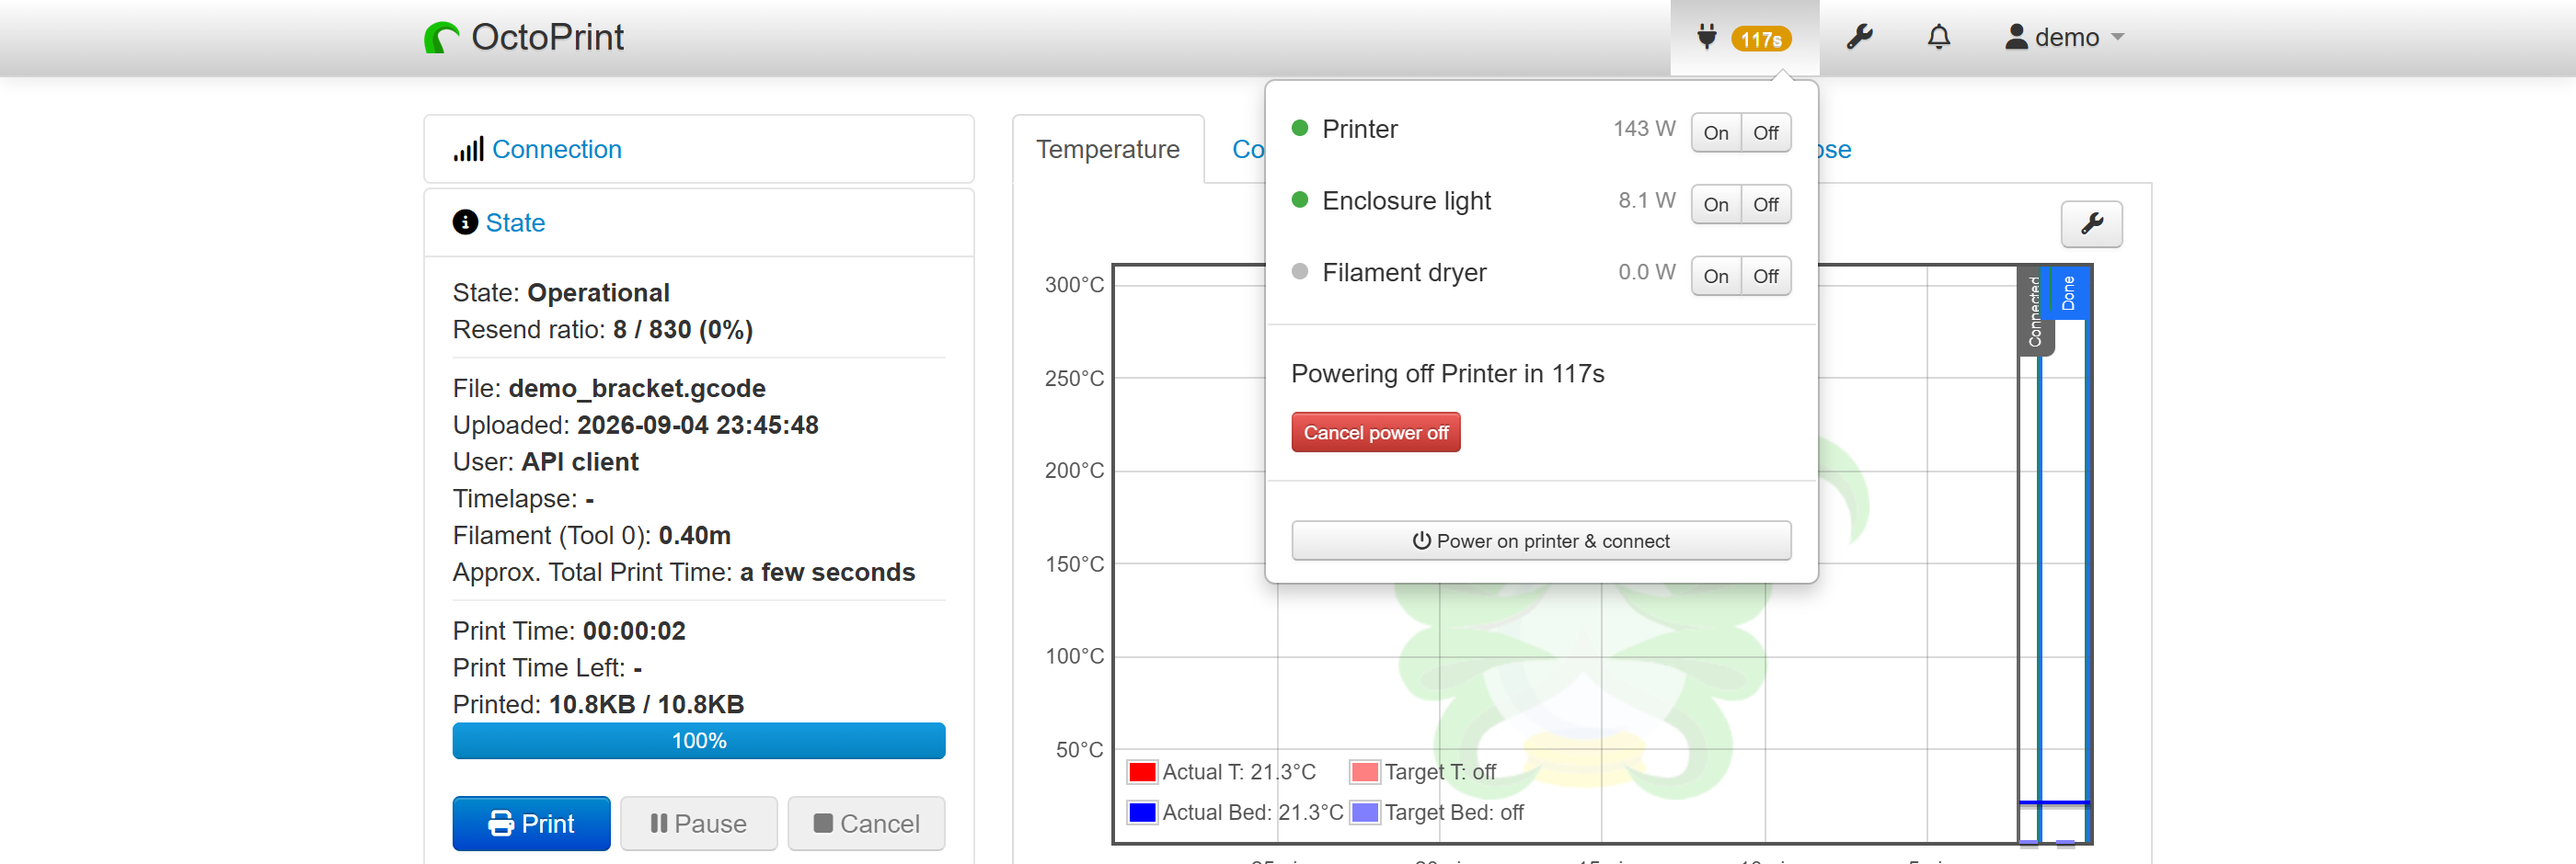
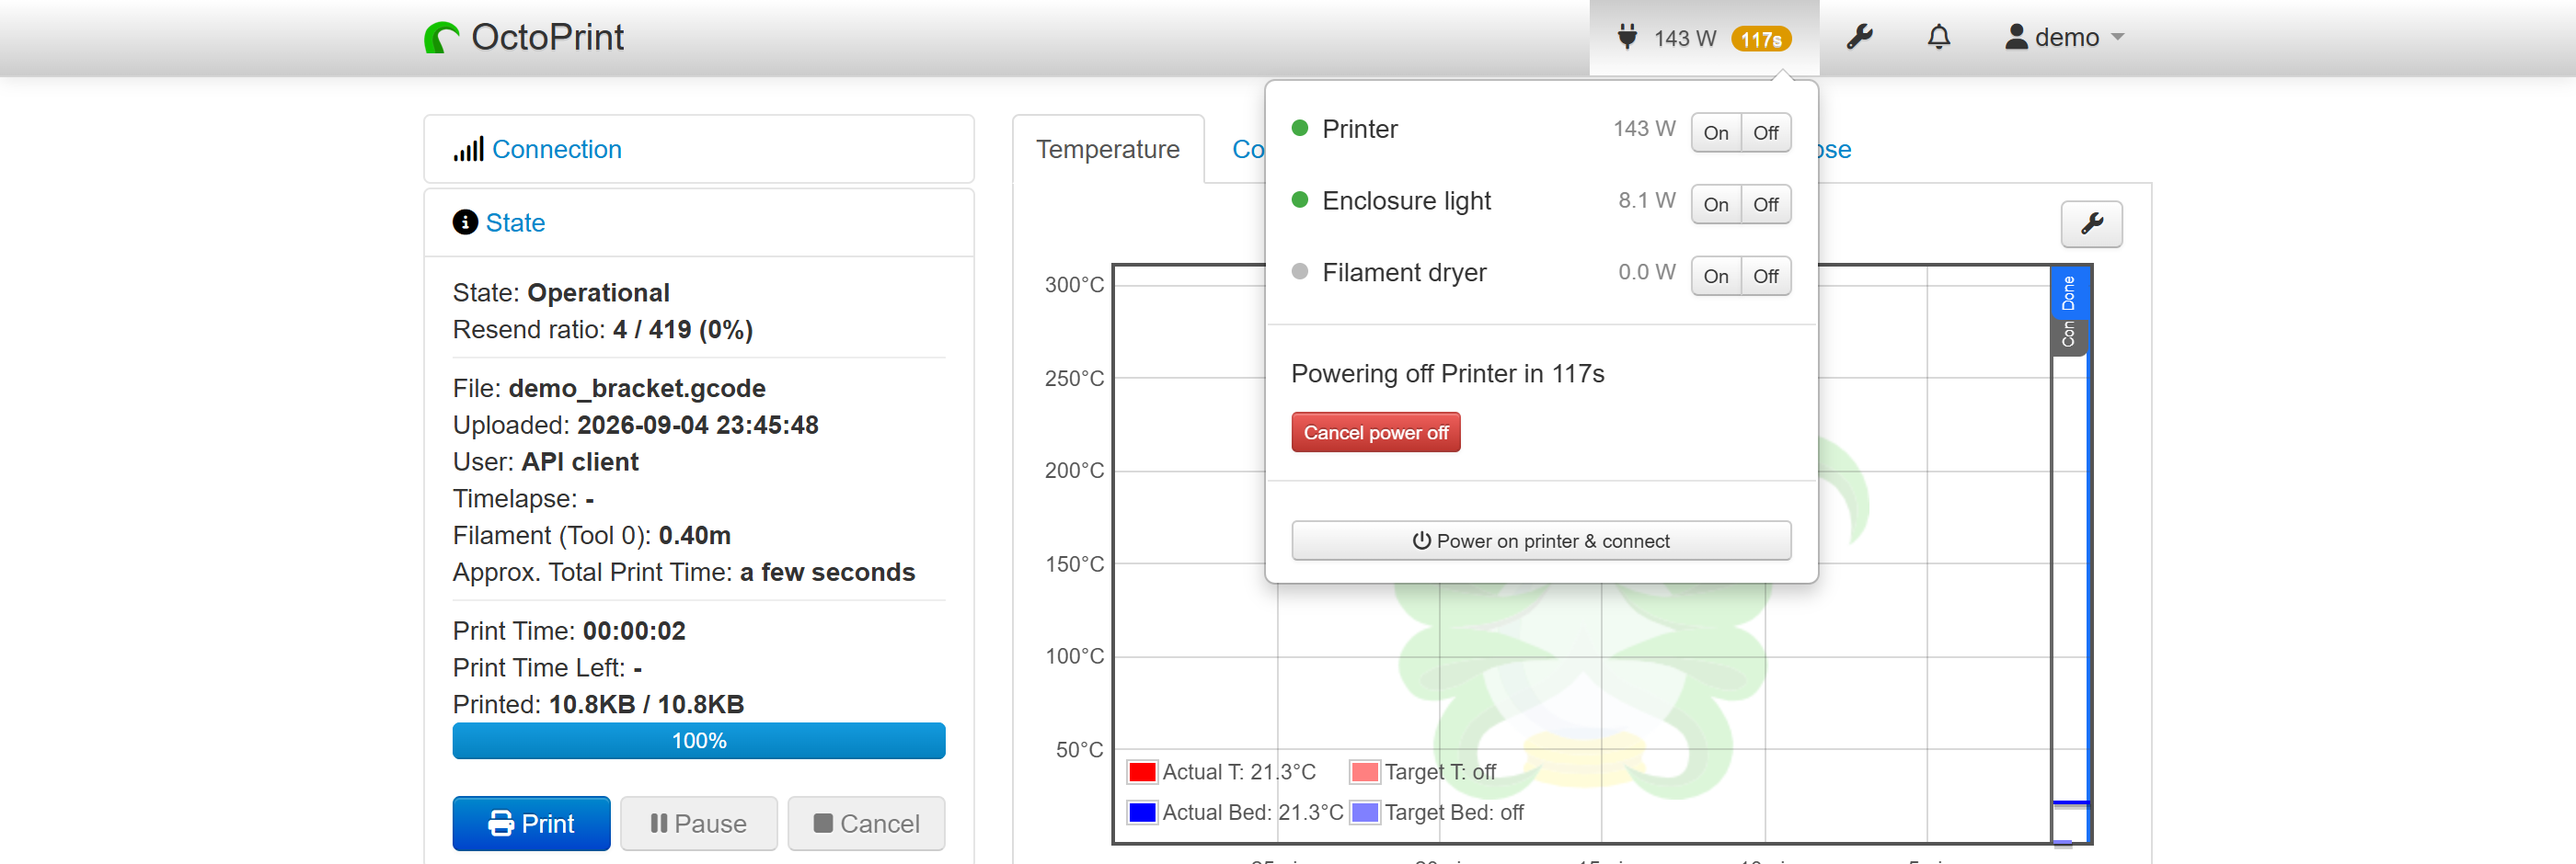
feat: show live printer wattage in the navbar itself
The printer plug's current draw now sits beside the navbar icon, readable
without opening the dropdown or scrolling to the sidebar. Per-plug wattage stays
in the dropdown rows.

The sidebar panel loses its now-duplicated "Now" row and keeps the per-print
energy figures, and it only appears when there is a print total to report rather
than whenever a power sensor exists.

Both are still governed by the existing "Show live wattage in the navbar"
setting, whose help text now describes both placements.

Claude-Session: https://claude.ai/code/session_0128saoWk8HrbcBfoa22dLLK

Changed region(s): [[0.7768, 0.3085, 0.8079, 0.9872], [0.5904, 0.0, 0.6836, 0.0926], [0.2486, 0.3702, 0.2796, 0.4011]]

diff --git a/octoprint_homeassistant_power/static/js/homeassistant_power.js b/octoprint_homeassistant_power/static/js/homeassistant_power.js
@@ -124,6 +124,17 @@ $(function () {
             return formatPower(printerState().power_w);
         });
 
+        // Live draw for the printer plug, shown next to the navbar icon so it
+        // is readable without opening anything.
+        self.navbarPowerText = self.printerPowerText;
+
+        self.showNavbarPower = ko.pureComputed(function () {
+            var cfg = energySettings();
+            if (cfg.enabled === false || cfg.show_in_navbar === false) return false;
+            var watts = printerState().power_w;
+            return watts !== null && watts !== undefined;
+        });
+
         self.energyTracking = ko.pureComputed(function () {
             return !!(self.energy() || {}).tracking;
         });
@@ -148,12 +159,12 @@ $(function () {
                 state.cumulative === false;
         });
 
+        // Live watts now live in the navbar, so the panel is only worth showing
+        // when there is per-print energy to report.
         self.sidebarVisible = ko.pureComputed(function () {
             var cfg = energySettings();
             if (cfg.enabled === false || cfg.show_sidebar === false) return false;
-            var state = printerState();
-            return state.power_w !== null && state.power_w !== undefined ||
-                state.energy_kwh !== null && state.energy_kwh !== undefined;
+            return self.energyTracking() || !!self.lastPrintEnergy();
         });
 
         // --- API ------------------------------------------------------------

diff --git a/octoprint_homeassistant_power/static/css/homeassistant_power.css b/octoprint_homeassistant_power/static/css/homeassistant_power.css
@@ -73,6 +73,13 @@
     margin-bottom: 6px;
 }
 
+.ha-power-live {
+    margin-left: 5px;
+    font-size: 0.85em;
+    font-variant-numeric: tabular-nums;
+    opacity: 0.85;
+}
+
 .ha-power-badge {
     margin-left: 4px;
     padding: 1px 5px;

diff --git a/setup.py b/setup.py
@@ -3,7 +3,7 @@
 plugin_identifier = "homeassistant_power"
 plugin_package = "octoprint_homeassistant_power"
 plugin_name = "OctoPrint-HomeAssistantPower"
-plugin_version = "0.1.1"
+plugin_version = "0.1.2"
 plugin_description = (
     "Control Home Assistant smart plugs from OctoPrint: switch them from the "
     "navbar, power the printer down after a print once it has cooled, and see "

diff --git a/README.md b/README.md
@@ -20,9 +20,11 @@ reason to leave the OctoPrint tab.
   Nothing is switched while the printer is still hot with its fans dead.
 - **Power on and connect.** One button turns the printer plug on and retries the
   serial connection until the printer answers.
-- **Energy and cost.** If your plugs report power and energy, the dropdown shows
-  live wattage and a sidebar panel shows what the current print has used so far,
-  what the last one used, and optionally what it cost.
+- **Energy and cost.** If your plugs report power and energy, the printer's live
+  draw sits in the navbar itself where you can read it at a glance, each plug
+  shows its own draw in the dropdown, and a sidebar panel reports what the
+  current print has used so far, what the last one used, and optionally what it
+  cost.
 - **Any entity type.** The service domain is taken from the entity ID, so
   `switch.*`, `light.*` and `input_boolean.*` all work. That matters for Zigbee
   plugs, which land in different domains depending on whether you use ZHA,
@@ -33,8 +35,8 @@ reason to leave the OctoPrint tab.
 
 ## Screenshots
 
-Every configured entity gets a state dot, live wattage and on/off buttons in the
-navbar dropdown:
+The printer's live draw sits in the navbar itself; the dropdown gives every
+configured entity a state dot, its own draw and on/off buttons:
 
 ![The navbar dropdown listing three smart plugs with their states and live wattage](docs/img/navbar.png)
 
@@ -42,9 +44,9 @@ After a print, a cancellable countdown runs before the printer is powered off:
 
 ![A countdown in the navbar offering to cancel the power off](docs/img/autooff.png)
 
-The sidebar panel shows live draw and what the last print consumed:
+The sidebar panel reports what each print consumed:
 
-![The sidebar energy panel showing live watts and the last print's kWh](docs/img/sidebar.png)
+![The sidebar energy panel showing the last print's kWh and cost](docs/img/sidebar.png)
 
 Entities, automation and energy options all live in one settings pane:
 
@@ -66,7 +68,7 @@ Install via the bundled [Plugin Manager](https://docs.octoprint.org/en/master/bu
 or manually using this URL:
 
 ```
-https://github.com/willtheorangeguy/OctoPrint-HomeAssistantPower/archive/v0.1.1.zip
+https://github.com/willtheorangeguy/OctoPrint-HomeAssistantPower/archive/v0.1.2.zip
 ```
 
 ## Setup

diff --git a/extras/homeassistant_power.md b/extras/homeassistant_power.md
@@ -12,7 +12,7 @@ date: 2026-09-05
 
 homepage: https://github.com/willtheorangeguy/OctoPrint-HomeAssistantPower
 source: https://github.com/willtheorangeguy/OctoPrint-HomeAssistantPower
-archive: https://github.com/willtheorangeguy/OctoPrint-HomeAssistantPower/archive/v0.1.1.zip
+archive: https://github.com/willtheorangeguy/OctoPrint-HomeAssistantPower/archive/v0.1.2.zip
 
 tags:
 - power
@@ -24,8 +24,8 @@ tags:
 
 screenshots:
 - url: /assets/img/plugins/homeassistant_power/navbar.png
-  alt: The navbar dropdown listing three smart plugs with their states and live wattage
-  caption: Every configured entity gets a state dot, live wattage and on/off buttons.
+  alt: The navbar showing live wattage, with a dropdown listing three smart plugs
+  caption: The printer's live draw sits in the navbar; the dropdown controls every plug.
 - url: /assets/img/plugins/homeassistant_power/autooff.png
   alt: A countdown notification offering to keep the power on
   caption: A cancellable countdown runs before the printer is powered off.
